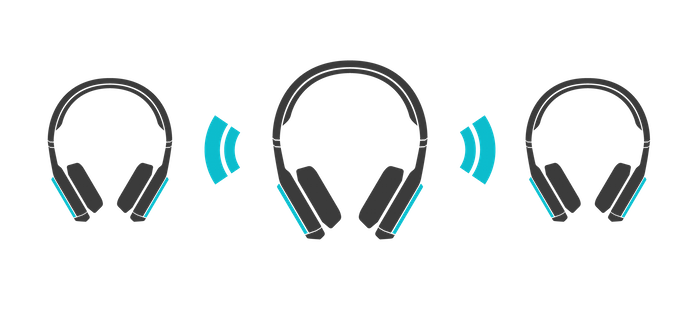
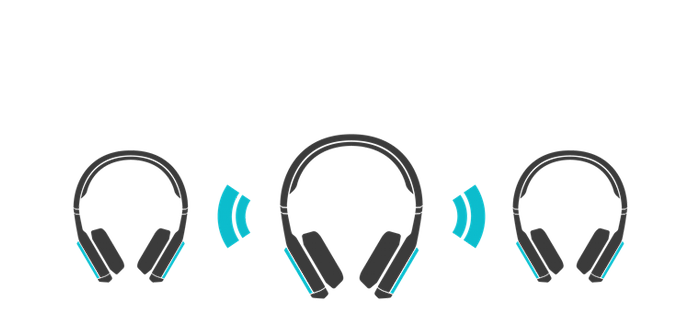
updated headphonegraphic and navbar

Changed region(s): [[0.39, 0.1852, 0.93, 0.9259], [0.06, 0.216, 0.36, 0.8951]]

diff --git a/static/js/custom.js b/static/js/custom.js
@@ -4,45 +4,45 @@
 
 $(document).ready(function() {
 
-
-	// $('#sync .tab-left').click(function() {
-	// 	if ($('#sync .tab-text-left').css('left') == '0px') {
-	// 		$('#sync .tab-text-left').animate({left: '-670px'}, 400);
-	// 	}
-	// 	else {
-	// 		$('#sync .tab-text-left').animate({left: '0px'}, 400);
-	// 	}
-	// });
-
-
-	// $('#color .tab-right').click(function() {
-	// 	if ($('#color .tab-text-right').css('right') == '0px') {
-	// 		$('#color .tab-text-right').animate({right: '-670px'}, 400);
-	// 	}
-	// 	else {
-	// 		$('#color .tab-text-right').animate({right: '0px'}, 400);
-	// 	}
-	// });
-
-	// $('#touch .tab-left').click(function() {
-	// 	if ($('#touch .tab-text-left').css('left') == '0px') {
-	// 		$('#touch .tab-text-left').animate({left: '-670px'}, 400);
-	// 	}
-	// 	else {
-	// 		$('#touch .tab-text-left').animate({left: '0px'}, 400);
-	// 	}
-	// });
-
-	// $('#app .tab-right').click(function() {
-	// 	if ($('#app .tab-text-right').css('right') == '0px') {
-	// 		$('#app .tab-text-right').animate({right: '-670px'}, 400);
-	// 	}
-	// 	else {
-	// 		$('#app .tab-text-right').animate({right: '0px'}, 400);
-	// 	}
-	// });
+ 	// click functionality for tablets/smartphones
+	$('#sync .tab-left').click(function() {
+		if ($('#sync .tab-text-left').css('left') == '0px') {
+			$('#sync .tab-text-left').animate({left: '-670px'}, 400);
+		}
+		else {
+			$('#sync .tab-text-left').animate({left: '0px'}, 400);
+		}
+	});
 
 
+	$('#color .tab-right').click(function() {
+		if ($('#color .tab-text-right').css('right') == '0px') {
+			$('#color .tab-text-right').animate({right: '-670px'}, 400);
+		}
+		else {
+			$('#color .tab-text-right').animate({right: '0px'}, 400);
+		}
+	});
+
+	$('#touch .tab-left').click(function() {
+		if ($('#touch .tab-text-left').css('left') == '0px') {
+			$('#touch .tab-text-left').animate({left: '-670px'}, 400);
+		}
+		else {
+			$('#touch .tab-text-left').animate({left: '0px'}, 400);
+		}
+	});
+
+	$('#app .tab-right').click(function() {
+		if ($('#app .tab-text-right').css('right') == '0px') {
+			$('#app .tab-text-right').animate({right: '-670px'}, 400);
+		}
+		else {
+			$('#app .tab-text-right').animate({right: '0px'}, 400);
+		}
+	});
+
+	// hover functionality for desktops/laptops
 	$('#sync .tab-left').mouseenter(function() {
 		if ($(window).width() > 1099) { // desktop
 			if ($('#sync .tab-text-left').css('left') == '-670px') {

diff --git a/static/css/navbar.css b/static/css/navbar.css
@@ -43,6 +43,7 @@
 }
 
 #order_now {
+    margin-left: 15px;
     padding-top: 5px;
 }
 
